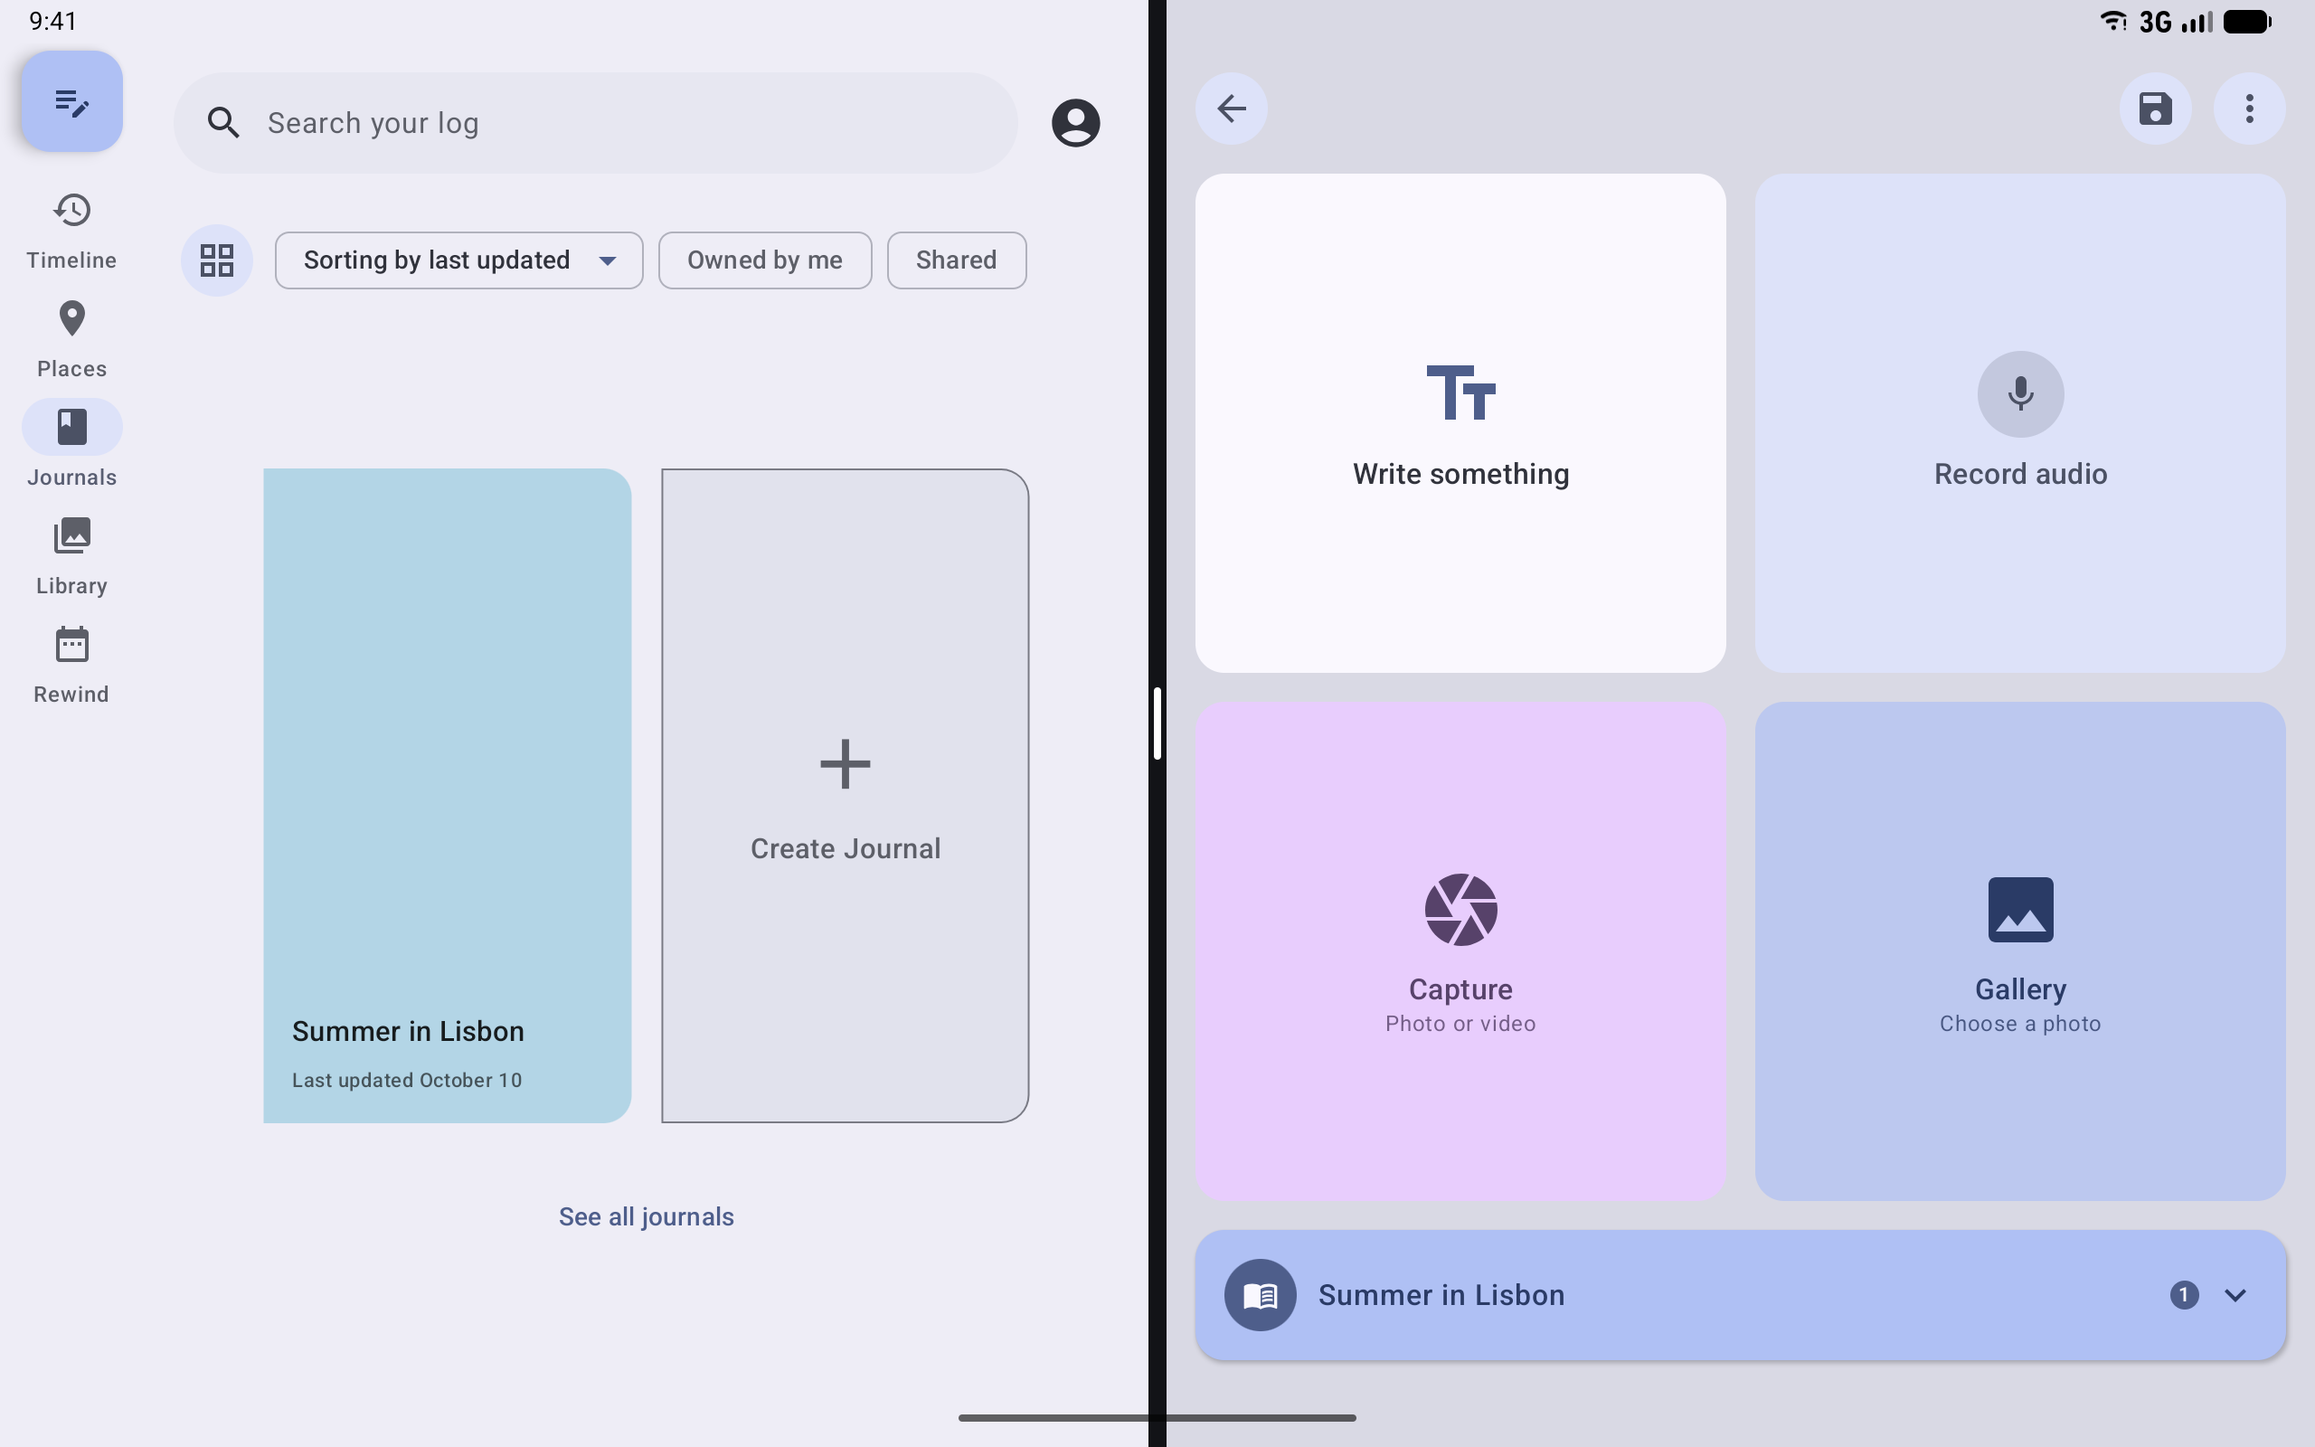
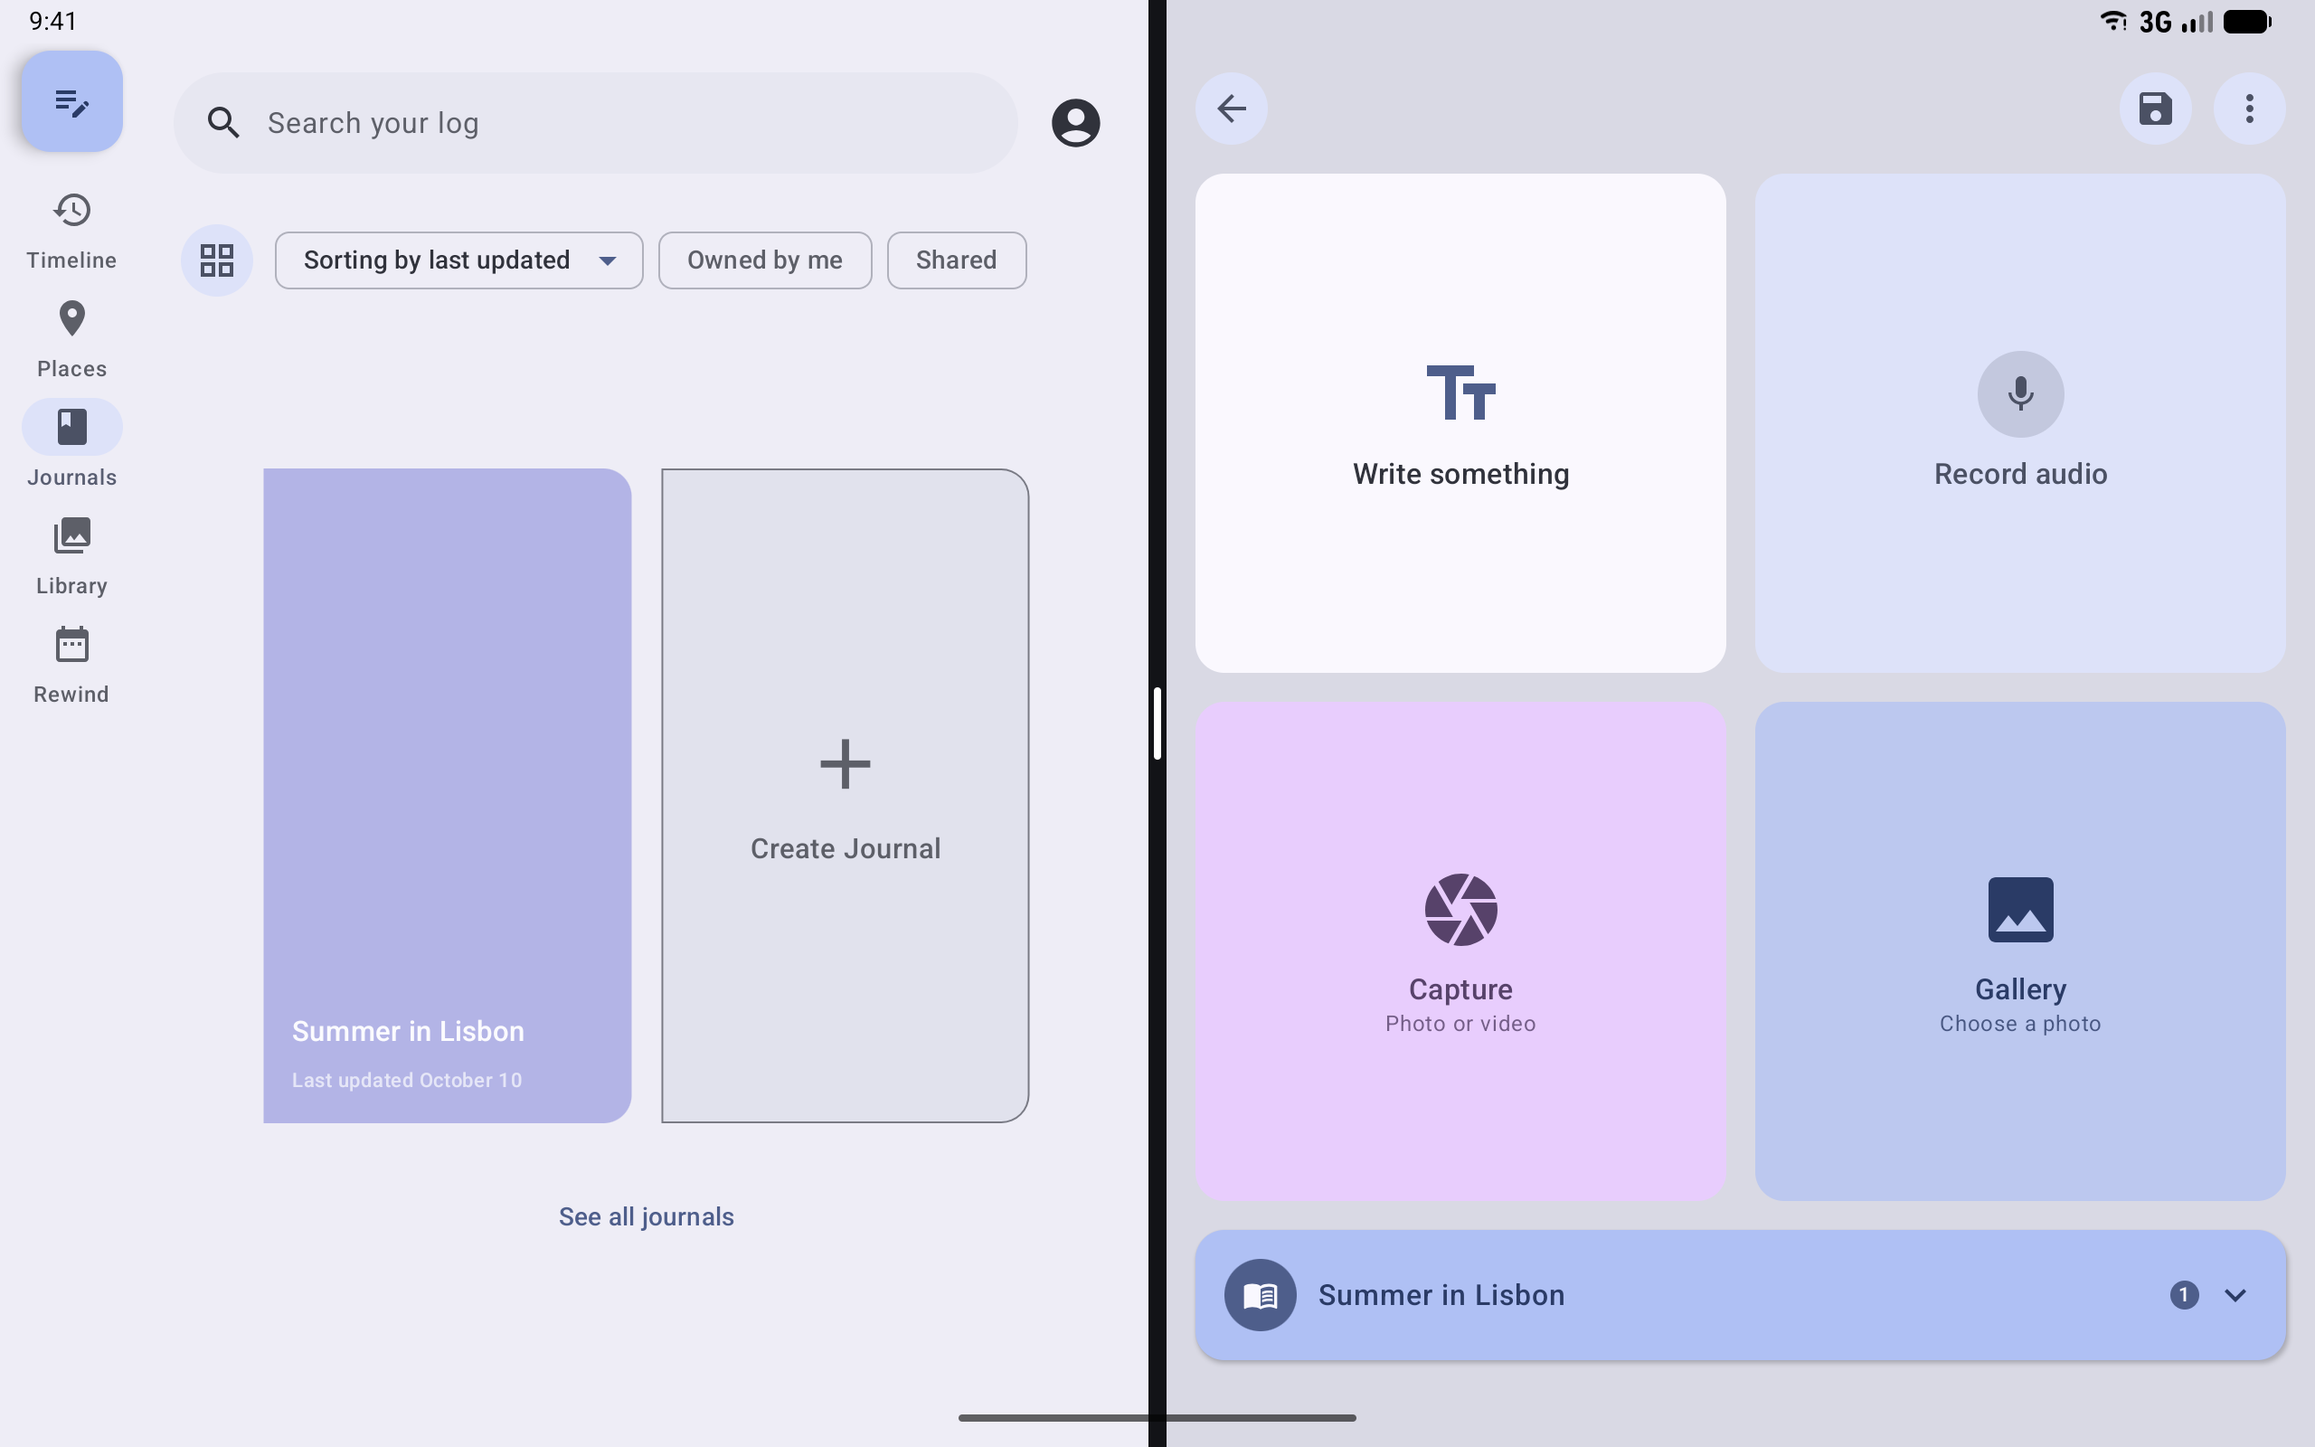
fix(export): Use sentence case in export and restore notifications
Export and restore notifications now read "Restore complete" and
"Exporting data" instead of "Restore Complete" and "Exporting Data",
matching the rest of LogDate, and their progress steps end in a real
ellipsis. The notification categories in Android's settings read "Data
export" and "Data restore".

The Android system UI captures now include a restore in progress as a
Live Update, with its status bar chip and phase segments, the finished
and failed notifications that follow, and the journal menu that a
long-press opens on a tablet. Captures on a freshly booted emulator now
keep the fixed 9:41 status bar.

Changed region(s): [[0.0938, 0.3125, 0.2812, 0.7812]]

diff --git a/app/android-main/src/androidTest/kotlin/app/logdate/client/e2e/osintegration/OsSurfaceScreenshotsTest.kt b/app/android-main/src/androidTest/kotlin/app/logdate/client/e2e/osintegration/OsSurfaceScreenshotsTest.kt
@@ -2,13 +2,18 @@ package app.logdate.client.e2e.osintegration
 
 import android.os.Build
 import androidx.test.ext.junit.runners.AndroidJUnit4
+import androidx.test.platform.app.InstrumentationRegistry
 import androidx.test.uiautomator.By
 import androidx.test.uiautomator.Until
 import app.logdate.client.datastore.featureflags.FeatureFlag
+import app.logdate.feature.core.export.ExportNotificationHelper
+import app.logdate.feature.core.restore.RestoreNotificationHelper
+import app.logdate.feature.core.restore.RestoreStage
 import org.junit.After
 import org.junit.Before
 import org.junit.Test
 import org.junit.runner.RunWith
+import kotlin.uuid.Uuid
 
 /**
  * Real system UI captures for the Android OS integration surfaces.
@@ -116,6 +121,28 @@ class OsSurfaceScreenshotsTest {
         }
     }
 
+    /**
+     * A restore in progress as a Live Update with one bar segment per phase, then the finished and
+     * failed states, whose titles Android 17 colors green and red.
+     */
+    @Test fun transferLiveUpdates() {
+        OsSurfaceCapture.prepareOnboardedApp()
+        OsSurfaceCapture.enableFlags(FeatureFlag.LIVE_UPDATES)
+        val context = InstrumentationRegistry.getInstrumentation().targetContext
+        val restore = RestoreNotificationHelper(context, Uuid.random())
+        val export = ExportNotificationHelper(context, Uuid.random())
+        OsSurfaceCapture.device.pressHome()
+        OsSurfaceCapture.postTransferNotification(restore.createForegroundInfo(RestoreStage.RESTORING_NOTES))
+        OsSurfaceCapture.capture(surface = "live-updates", state = "transfer-status-chip")
+        OsSurfaceCapture.openNotifications()
+        OsSurfaceCapture.waitForText("Restoring data")
+        OsSurfaceCapture.capture(surface = "live-updates", state = "transfer-progress")
+        OsSurfaceCapture.postTransferNotification(restore.createCompletionInfo())
+        OsSurfaceCapture.postTransferNotification(export.createErrorInfo("The folder you chose is no longer available."))
+        OsSurfaceCapture.waitForText("Export failed")
+        OsSurfaceCapture.capture(surface = "live-updates", state = "transfer-finished")
+    }
+
     /** A capture reminder answered from the notification shade with Write. */
     @Test fun notificationQuickReply() {
         OsSurfaceCapture.prepareOnboardedApp()
@@ -133,7 +160,7 @@ class OsSurfaceScreenshotsTest {
         OsSurfaceCapture.capture(surface = "notification-quick-reply", state = "saved")
     }
 
-    /** On a tablet, a journal's "New entry in a new window" opens the editor beside LogDate. */
+    /** On a tablet, a long-press on a journal opens its menu, whose "New entry in a new window" opens the editor beside LogDate. */
     @Test fun editorWindowSideBySide() {
         if (OsSurfaceCapture.formFactor != "tablet") return
         OsSurfaceCapture.prepareOnboardedApp()
@@ -141,7 +168,10 @@ class OsSurfaceScreenshotsTest {
         OsSurfaceCapture.openMainActivity()
         OsSurfaceCapture.waitForText("Journals").click()
         OsSurfaceCapture.longPress(OsSurfaceCapture.waitForText("Summer in Lisbon"))
-        OsSurfaceCapture.waitForText("New entry in a new window").click()
+        val newWindow = OsSurfaceCapture.waitForText("New entry in a new window")
+        Thread.sleep(500L)
+        OsSurfaceCapture.capture(surface = "keyboard-pointer-drag-and-drop", state = "journal-context-menu")
+        newWindow.click()
         Thread.sleep(4_000L)
         OsSurfaceCapture.capture(surface = "large-screens-and-desktop-windowing", state = "side-by-side")
     }

diff --git a/app/android-main/src/androidTest/kotlin/app/logdate/client/e2e/osintegration/OsSurfaceCapture.kt b/app/android-main/src/androidTest/kotlin/app/logdate/client/e2e/osintegration/OsSurfaceCapture.kt
@@ -11,6 +11,7 @@ import androidx.test.uiautomator.By
 import androidx.test.uiautomator.UiDevice
 import androidx.test.uiautomator.UiObject2
 import androidx.test.uiautomator.Until
+import androidx.work.ForegroundInfo
 import app.logdate.client.ambient.AmbientPromptNotificationCoordinator
 import app.logdate.client.datastore.LogdatePreferencesDataSource
 import app.logdate.client.datastore.featureflags.FeatureFlag
@@ -45,6 +46,7 @@ object OsSurfaceCapture {
     const val APP_LABEL = "LogDate"
     private const val TIMEOUT_MS = 10_000L
     private const val RECORDING_NOTIFICATION_ID = 1001
+    private const val DEMO_MODE_ATTEMPTS = 10
 
     val device: UiDevice by lazy { UiDevice.getInstance(InstrumentationRegistry.getInstrumentation()) }
 
@@ -85,7 +87,13 @@ object OsSurfaceCapture {
     /** Pins the status bar to 9:41, full battery, and full signal, with no notification icons. */
     fun enterDemoMode() {
         shell("settings put global sysui_demo_allowed 1")
-        demo("enter")
+        // SystemUI reads that setting asynchronously and ignores demo commands until it has, which a
+        // freshly booted device hits, so enter is repeated until SystemUI reports demo mode on.
+        for (attempt in 1..DEMO_MODE_ATTEMPTS) {
+            demo("enter")
+            if (shell("settings get global sysui_tuner_demo_on").trim() == "1") break
+            Thread.sleep(500L)
+        }
         demo("clock -e hhmm 0941")
         demo("battery -e level 100 -e plugged false")
         demo("network -e wifi show -e level 4 -e mobile show -e datatype none -e level 4")
@@ -280,6 +288,16 @@ object OsSurfaceCapture {
         device.openNotification()
         device.waitForIdle()
         Thread.sleep(800L)
+    }
+
+    /**
+     * Posts [info]'s notification the way a running export or restore worker would, without running
+     * the worker, so each stage of a transfer can be shown on demand.
+     */
+    fun postTransferNotification(info: ForegroundInfo) {
+        val context = InstrumentationRegistry.getInstrumentation().targetContext
+        context.getSystemService(NotificationManager::class.java).notify(info.notificationId, info.notification)
+        Thread.sleep(1_000L)
     }
 
     /** Turns LogDate's system search visibility, the consent assistants need to read entries, on or off. */

diff --git a/docs/audits/android-os-integration-checklist.md b/docs/audits/android-os-integration-checklist.md
@@ -110,7 +110,7 @@ A row reaches `[done]` only when its Evidence column lists:
 | `[done]` | Tile microphone start spike decided | Decided without starting the microphone from the tile: Record voice opens the editor in voice mode through the capture action, which starts recording in the foreground. Recorded in `quick-settings-tiles.md`. |
 | `[done]` | New entry and Record voice Quick Settings tiles, with an active recording state | Behind `QUICK_SETTINGS_TILES`. Tests: `CaptureTileStateTest`, `PlatformComponentTogglerTest`. Lane 2: `quick-settings-tiles/{idle,recording-editor,recording}--phone-api37.png`, plus API 36 and tablet. |
 | `[done]` | The recording notification is a Live Update with a status bar chip | Behind `LIVE_UPDATES`. Tests: `LiveUpdatesTest`. Lane 2: `live-updates/recording-status-chip--phone-api37.png` and `recording-notification`; `recording-promotion--phone-api37.txt` records `promotedOngoing=true`. |
-| `[partial]` | Export, restore, and sync progress are Live Updates | Behind `LIVE_UPDATES`: `applyTransferLiveUpdate` with percent chip and `ProgressStyle`; restore phases become segments. Tests: `LiveUpdatesTest`. Semantic colors for finished transfers dropped by decision: Android 17 applies semantic styles only to promoted notifications, and a finished transfer is no longer one. Missing: Lane 2 captures. |
+| `[partial]` | Export, restore, and sync progress are Live Updates | Behind `LIVE_UPDATES`: `applyTransferLiveUpdate` with percent chip and `ProgressStyle`; restore phases become segments. Tests: `LiveUpdatesTest`. Lane 2: `live-updates/transfer-{status-chip,progress,finished}--{phone,tablet}-api37.png`. Semantic colors for finished transfers dropped by decision: Android 17 applies semantic styles only to promoted notifications, and a finished transfer is no longer one. Missing: a sync capture. |
 | `[done]` | Capture nudges offer Write (direct reply) and Record | Behind `NOTIFICATION_QUICK_REPLY`: `QuickReplyReceiver`, confirmation without the entry text, failure with Retry. Tests: `QuickReplyTest`. Lane 2: `notification-quick-reply/{reply-field,saved}--{phone,tablet}-api37.png`. The failure state is tested, not captured. |
 | `[partial]` | A capture-only lock-screen and hub widget, showing no journal content | `CaptureWidget` behind `LOCK_SCREEN_CAPTURE_WIDGET`, declared for `home_screen\|keyguard`, with Write, Record, and Photo only. Tests: `CaptureWidgetContractTest`, `PlatformComponentTogglerTest`. Lane 2: `widgets/capture-widget-picker--phone-api37.png`. Missing: a capture placed on the lock screen or hub. |
 
@@ -134,7 +134,7 @@ A row reaches `[done]` only when its Evidence column lists:
 | Status | Requirement | Evidence |
 | --- | --- | --- |
 | `[partial]` | One keyboard shortcut catalog drives Compose handlers, the Meta+/ helper, and desktop menus | `AppKeyboardShortcut` drives the Compose handlers (Ctrl+N, Ctrl+Shift+R, Ctrl+F, Ctrl+Comma, Ctrl+1 to 5, editor Ctrl+S and Esc) and the Meta+/ groups; `AppKeyboardShortcutsTest`. Lane 2: `keyboard-pointer-drag-and-drop/shortcut-helper--tablet-api37.png`. Missing: desktop menu bar. |
-| `[partial]` | Right-click opens context menus at the pointer; icon-only actions have tooltips | Secondary click opens `ContextMenuArea` at the pointer (`ContextMenuPlacementTest`), on desktop as well as Android; long-press opens it over clickable cards without also clicking (`ContextMenuAreaTest`). `IconTooltip` on the account action and the recorder bubble. Missing: Lane 1 menu and tooltip references. |
+| `[partial]` | Right-click opens context menus at the pointer; icon-only actions have tooltips | Secondary click opens `ContextMenuArea` at the pointer (`ContextMenuPlacementTest`), on desktop as well as Android; long-press opens it over clickable cards without also clicking (`ContextMenuAreaTest`). Lane 2: `keyboard-pointer-drag-and-drop/journal-context-menu--tablet-api37.png`. `IconTooltip` on the account action and the recorder bubble. Missing: Lane 1 menu and tooltip references. |
 | `[partial]` | Text, photos, videos, and audio can be dropped or pasted into the editor | `entryDropTarget` with `routeDroppedItems` (`EntryDropTest`); media is copied into the private store before the drag permission ends. Missing: paste through `contentReceiver` and a cross-app drag capture. |
 | `[partial]` | Photos and videos drag out as readable content URIs | `mediaDragSource` sends FileProvider URIs with global read flags from Library thumbnails. Missing: cross-app drag capture. |
 | `[todo]` | Stylus handwriting works in the editor | |

diff --git a/docs/reference/android/os-integration/live-updates.md b/docs/reference/android/os-integration/live-updates.md
@@ -39,6 +39,15 @@ the notification drops into the shade's normal list, where the person can tap it
 | --- | --- |
 | ![A microphone and elapsed-time chip in the status bar](../../../screenshots/android-os-integration/live-updates/recording-status-chip--phone-api37.png) | ![The recording notification at the top of the shade](../../../screenshots/android-os-integration/live-updates/recording-notification--phone-api37.png) |
 
+A restore in progress, on the same phone. The chip shows the percent done, and the bar is split into
+the restore's phases:
+
+| The status bar chip | The promoted notification |
+| --- | --- |
+| ![A download icon and 52% chip in the status bar on the home screen](../../../screenshots/android-os-integration/live-updates/transfer-status-chip--phone-api37.png) | ![Restoring data, Restoring notes…, with a two-segment progress bar and Cancel, at the top of the shade](../../../screenshots/android-os-integration/live-updates/transfer-progress--phone-api37.png) |
+
+`transfer-finished--phone-api37.png` shows the finished and failed notifications that follow.
+
 Android shows the chip only while LogDate is not on screen. The capture also records Android's own
 verdict on the notification in
 [`recording-promotion--phone-api37.txt`](../../../screenshots/android-os-integration/live-updates/recording-promotion--phone-api37.txt):

diff --git a/docs/reference/android/os-integration/keyboard-pointer-drag-and-drop.md b/docs/reference/android/os-integration/keyboard-pointer-drag-and-drop.md
@@ -50,6 +50,10 @@ Multitasking. It lists an app's shortcuts only for keys that the attached keyboa
 - Right-clicking a journal cover, a media thumbnail, or a postcard opens its menu at the pointer.
 - Long-pressing a journal cover or a postcard opens the same menu without also opening the item.
   Long-pressing a media thumbnail starts a drag instead (see below), so its menu is on right-click.
+
+A long-press on a journal in the tablet's Journals carousel, on Android 17:
+
+![The Journals screen on a tablet with a menu over the Summer in Lisbon cover offering Open journal and New entry in a new window](../../../screenshots/android-os-integration/keyboard-pointer-drag-and-drop/journal-context-menu--tablet-api37.png)
 - Hovering an icon-only button shows a tooltip naming its action.
 
 ### Drag and drop
